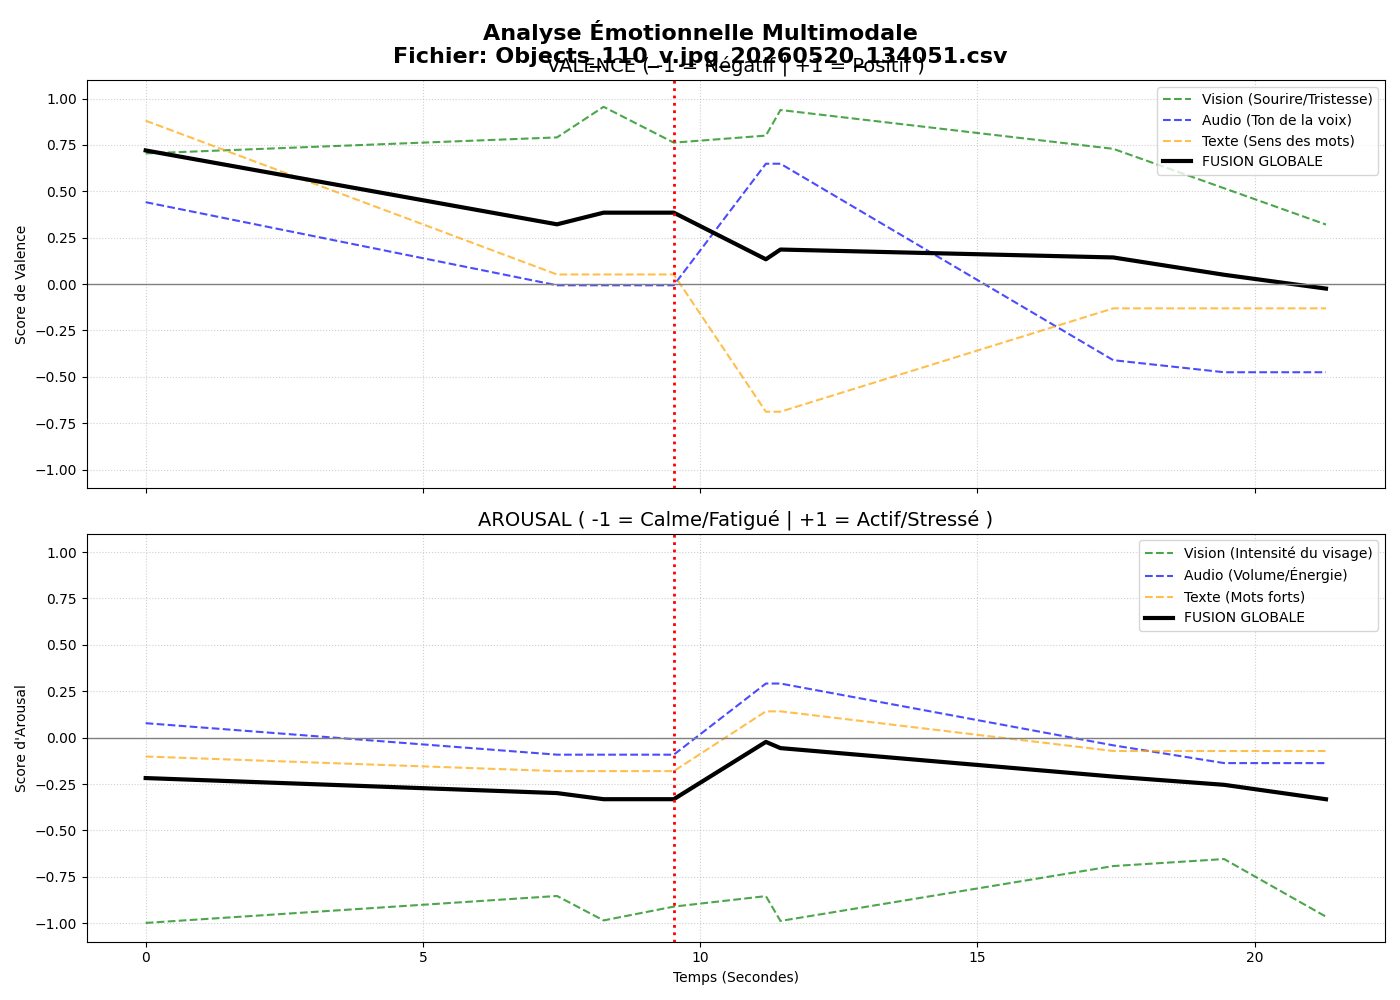
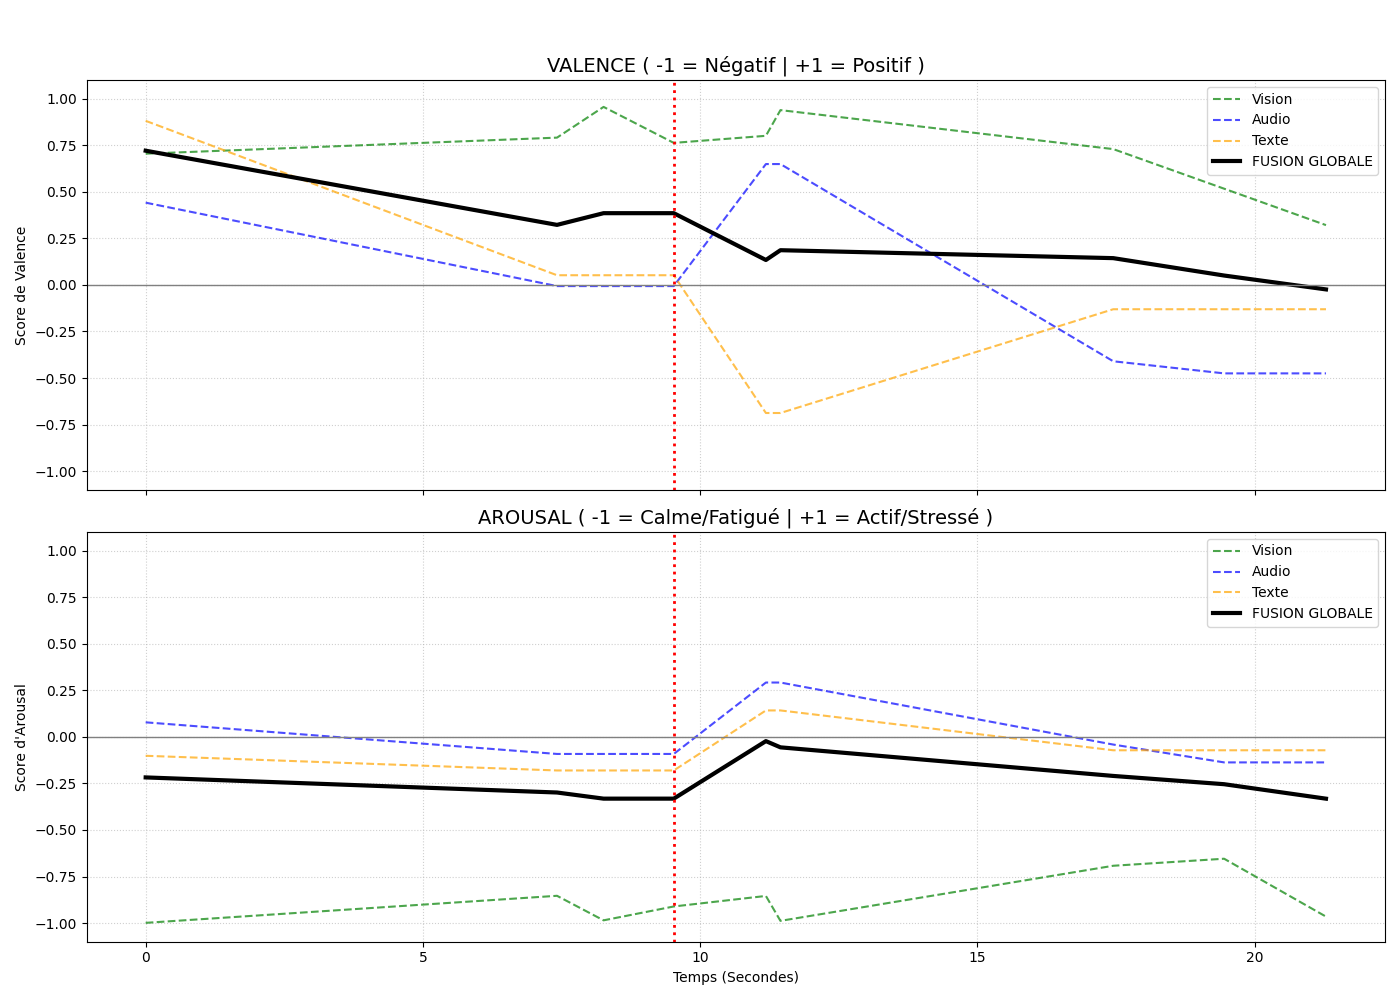
CSV

diff --git a/visualiser_donnees.py b/visualiser_donnees.py
@@ -20,7 +20,6 @@ def tracer_graphiques(chemin_csv):
 
     # Paramétrage de la figure (2 graphiques l'un au-dessus de l'autre)
     fig, (ax_valence, ax_arousal) = plt.subplots(2, 1, figsize=(14, 10), sharex=True)
-    fig.suptitle(f"Analyse Émotionnelle Multimodale\nFichier: {os.path.basename(chemin_csv)}", fontsize=16, fontweight='bold')
 
     # ==========================================
     # GRAPHIQUE 1 : VALENCE (Positif / Négatif)
@@ -28,9 +27,9 @@ def tracer_graphiques(chemin_csv):
     ax_valence.set_title("VALENCE ( -1 = Négatif | +1 = Positif )", fontsize=14)
     
     # Lignes des modalités (en pointillés et plus fines)
-    ax_valence.plot(df['temps_relatif'], df['vv'], label='Vision (Sourire/Tristesse)', color='green', linestyle='--', alpha=0.7)
-    ax_valence.plot(df['temps_relatif'], df['va'], label='Audio (Ton de la voix)', color='blue', linestyle='--', alpha=0.7)
-    ax_valence.plot(df['temps_relatif'], df['vt'], label='Texte (Sens des mots)', color='orange', linestyle='--', alpha=0.7)
+    ax_valence.plot(df['temps_relatif'], df['vv'], label='Vision', color='green', linestyle='--', alpha=0.7)
+    ax_valence.plot(df['temps_relatif'], df['va'], label='Audio', color='blue', linestyle='--', alpha=0.7)
+    ax_valence.plot(df['temps_relatif'], df['vt'], label='Texte', color='orange', linestyle='--', alpha=0.7)
     
     # Ligne de FUSION (en gras)
     ax_valence.plot(df['temps_relatif'], df['v'], label='FUSION GLOBALE', color='black', linewidth=3)
@@ -47,9 +46,9 @@ def tracer_graphiques(chemin_csv):
     ax_arousal.set_title("AROUSAL ( -1 = Calme/Fatigué | +1 = Actif/Stressé )", fontsize=14)
     
     # Lignes des modalités
-    ax_arousal.plot(df['temps_relatif'], df['av'], label='Vision (Intensité du visage)', color='green', linestyle='--', alpha=0.7)
-    ax_arousal.plot(df['temps_relatif'], df['aa'], label='Audio (Volume/Énergie)', color='blue', linestyle='--', alpha=0.7)
-    ax_arousal.plot(df['temps_relatif'], df['at'], label='Texte (Mots forts)', color='orange', linestyle='--', alpha=0.7)
+    ax_arousal.plot(df['temps_relatif'], df['av'], label='Vision', color='green', linestyle='--', alpha=0.7)
+    ax_arousal.plot(df['temps_relatif'], df['aa'], label='Audio', color='blue', linestyle='--', alpha=0.7)
+    ax_arousal.plot(df['temps_relatif'], df['at'], label='Texte', color='orange', linestyle='--', alpha=0.7)
     
     # Ligne de FUSION
     ax_arousal.plot(df['temps_relatif'], df['a'], label='FUSION GLOBALE', color='black', linewidth=3)
